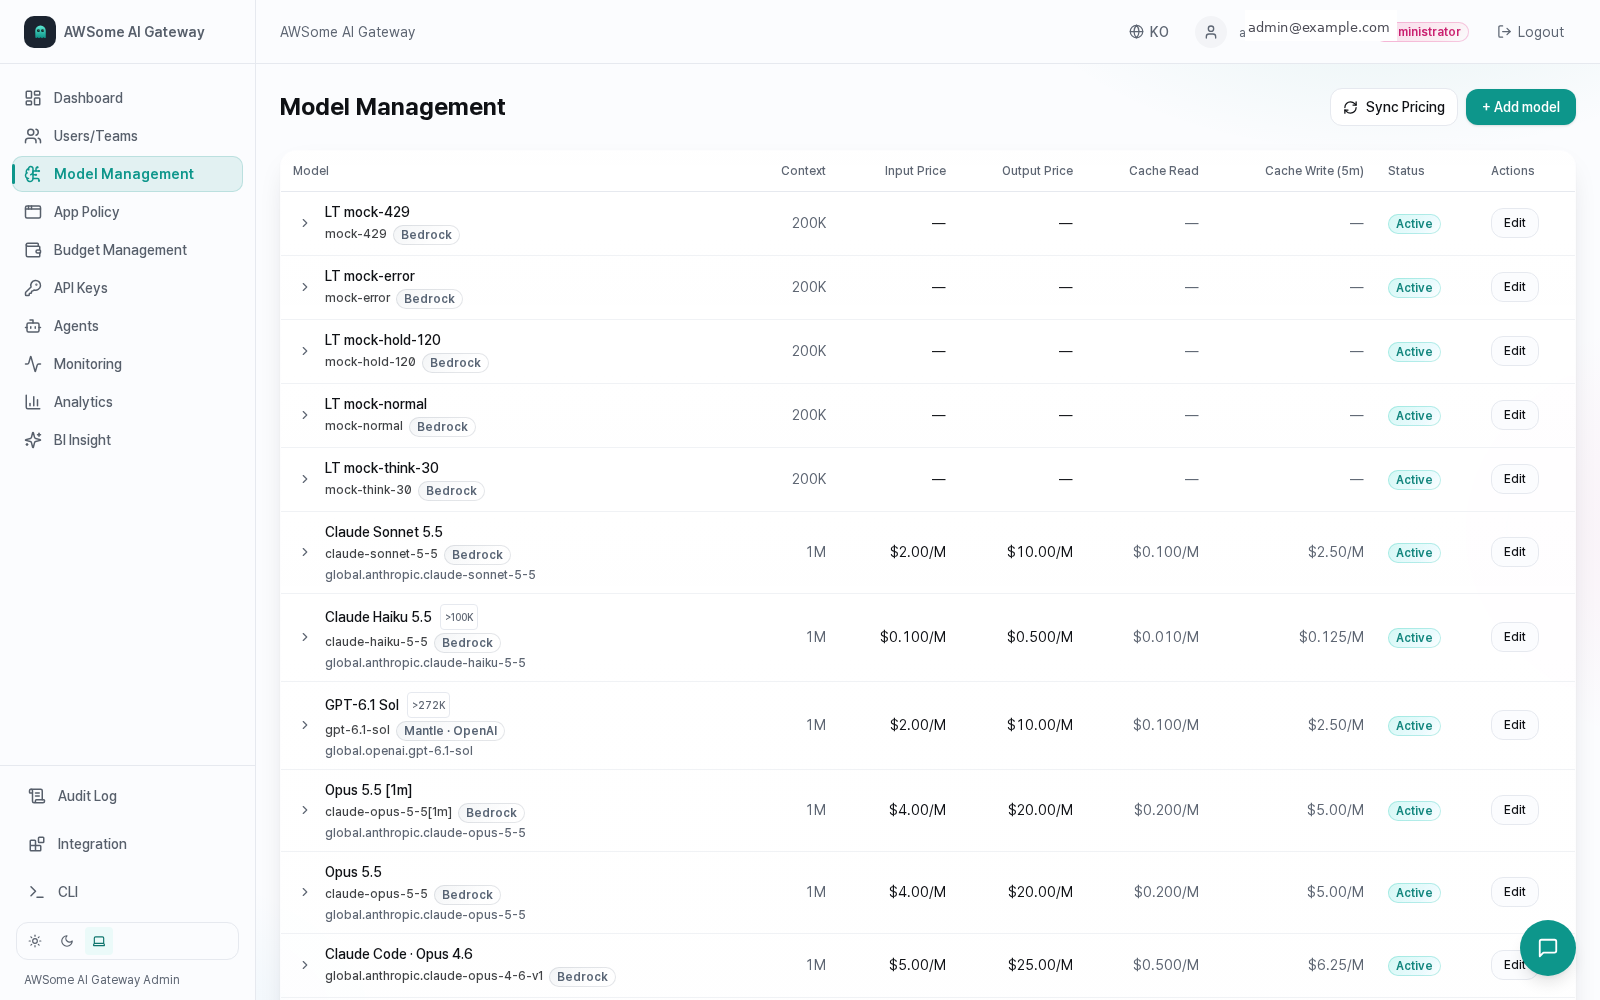
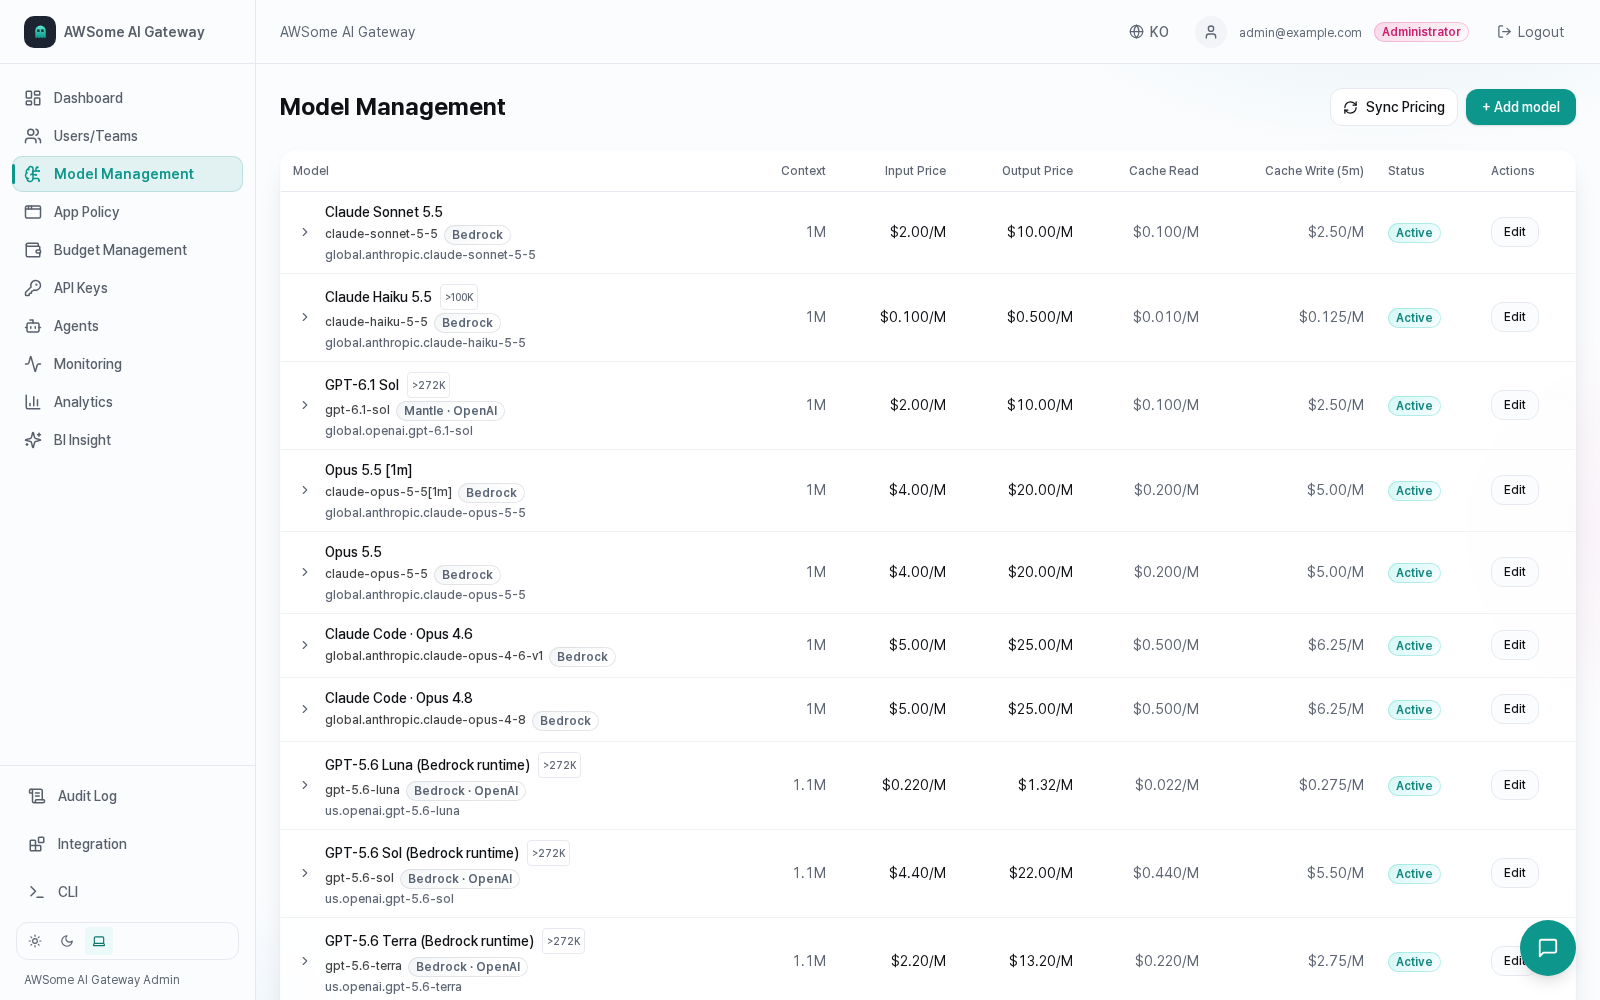
docs(NDS): models guide — real LiteLLM diff capture, delete-flow detail
- Remove all 5 mock-* loadtest models from the live catalog (Delete
  flow via expanded row → alias-typed confirm); recaptured 02-models
  (clean catalog) and 48-models-sync-litellm-preview (unmatched now 0).
- New 49-models-sync-litellm-diff: a real preview diff — a deliberately
  mis-priced claude-sonnet-4-6 ($9.99 → $3.00 proposed), then Apply
  restored it to catalog price, demonstrating the read-then-write flow.
- models.md: link the diff screenshot; document delete impact dialog
  (usage retained, refs removed, downgrade-target block, history
  survives deletion).

Generated with [Devin](https://devin.ai)

diff --git a/projects/awsome-ai-gateway/docs/NDS/guides/models.md b/projects/awsome-ai-gateway/docs/NDS/guides/models.md
@@ -33,9 +33,12 @@ The preview header reports the effective source (for LiteLLM, the Lambda
 name — e.g. `lambda:llm-gateway-dev-litellm-pricing`) and the match
 counts. The diff table lists changed rows with current → proposed
 input/output/cache prices — check the rows you want, **Apply selected**
-writes only those. Aliases with no mapping in the source are listed as
-**unmatched** and keep their current price — a sync never blanks an
-existing price.
+writes only those:
+
+![LiteLLM preview with a price diff](screenshots/49-models-sync-litellm-diff.png)
+
+Aliases with no mapping in the source are listed as **unmatched** and
+keep their current price — a sync never blanks an existing price.
 
 > Changing the source after a preview clears the result — always
 > re-preview on the source you intend to apply (a server-side drift
@@ -105,8 +108,12 @@ Fields, top to bottom:
 
 - **Deactivate** removes the alias from routing immediately while
   preserving usage history — preferred for retiring a model.
-- **Delete** removes the catalog entry entirely; the UI gates this on
-  models with no dependent references.
+- **Delete** removes the catalog entry entirely; the dialog shows the
+  impact counts (usage logs retained; pricing/permissions/rate limits
+  removed) and requires typing the alias to confirm. A model that is a
+  **downgrade target** for another alias cannot be deleted until the
+  reference is removed. **Usage history survives deletion** — deleted
+  models can still appear in Analytics and audit history.
 
 ## Related
 
